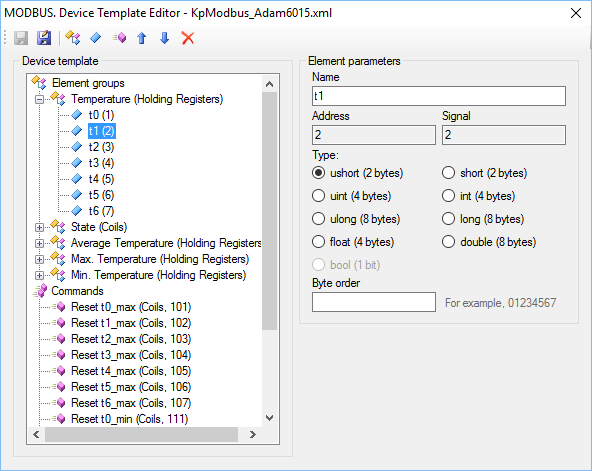
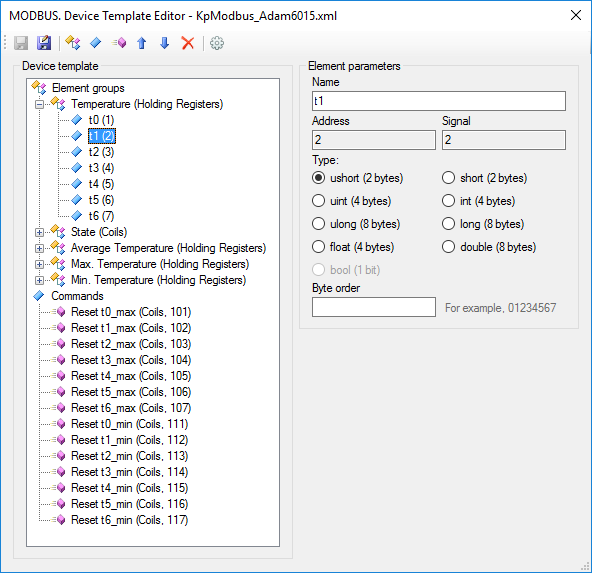
ScadaDoc: update Modbus article (en)

diff --git a/ScadaDoc/ScadaDoc/content/en/use-cases/modbus-protocol.html b/ScadaDoc/ScadaDoc/content/en/use-cases/modbus-protocol.html
@@ -12,7 +12,7 @@
 
     <p class="sd-article-meta">
         Written by Rapid SCADA on January 5, 2015<br />
-        Updated on January 25, 2017
+        Updated on October 16, 2017
     </p>
 
     <p>This article describes how to configure communication with devices using Modbus protocol. Simple and robust, Modbus has since become a de facto standard communication protocol, and it is now a commonly available means of connecting industrial electronic devices (see <a href="https://en.wikipedia.org/wiki/Modbus" target="_blank">Wikipedia</a>). Rapid SCADA supports Modbus RTU, ASCII and TCP modes.</p>
@@ -140,15 +140,20 @@
 
     <p>Device template reflects the structure of Modbus packages. Requested data are combined into groups of elements. Each group has its name, data table, start address and element count. Each element is a tag of a device. Rapid SCADA identifies a tag by its signal number. A command is described by its name, data table and address. A command number identifies the command within Rapid SCADA.</p>
 
-    <p>Names of groups, elements and commands are arbitrary. What data tables and element addresses are available usually described in device manual. As written in Modbus standard, element addresses start with 1, but device manufacturers often numerate the first element as 0. In this case just add 1 to an address before entering it to device template.</p>
+    <p>Names of groups, elements and commands are arbitrary. The available data tables and element addresses are usually described in device manual. Depending on the manufacturer, addressing of elements can be zero-based or one-based, specified as decimal or hexadecimal numbers. By default, addresses start with 1 and represented as decimals. To switch template addressing, click the <img src="../../common-images/settings.png" /> button. Template settings dialog is opened (see Figure 10).</p>
+
+    <p class="sd-article-image">
+        <img src="modbus-protocol-files/modbus_template_settings_en.png" alt="Template settings" /><br />
+        Figure 10. Template settings
+    </p>
 
     <p>To save Communicator settings click the <img src="../../common-images/apply.png" /> button. Now it is recommended to start the Communicator service with the <img src="../../common-images/start.png" /> button and check communication with the device.</p>
 
-    <p>Click Device 101 "Test device" tree node to check the device state and the availability of data (see Figure 10). The data is not available immediately after start, retrieved values are shown when the first polling complete.</p>
+    <p>Click Device 101 "Test device" tree node to check the device state and the availability of data (see Figure 11). The data is not available immediately after start, retrieved values are shown when the first polling complete.</p>
 
     <p class="sd-article-image">
         <img src="modbus-protocol-files/modbus_data_en.png" alt="Device data" /><br />
-        Figure 10. Device data
+        Figure 11. Device data
     </p>
 
     <p>In case of losing communication with the device, use a communication line log to analyze the problem cause. To open the log, click the <em>Communication Line Stats</em> tree node and go to the <em>Communication Line Log</em> page. Data packages can be decoded by <a href="http://modbus.rapidscada.net/" target="_blank">Online Modbus Parser</a>.</p>
@@ -159,11 +164,11 @@
 
     <p>The automatic channel creation service helps to save a time. Click <em>Service &gt; Create Channels</em> in the main menu of the application.</p>
 
-    <p>On the form, which is shown in Figure 11, choose "Test line" in the drop down list, then tick the "Test device" row and choose "Test object" in the cell of the <em>Object</em> column. Set the channel numbering parameters to create channels having convenient numbers. Firstly press the <em>Calculate channel numbers</em> button, then press <em>Create</em>.</p>
+    <p>On the form, which is shown in Figure 12, choose "Test line" in the drop down list, then tick the "Test device" row and choose "Test object" in the cell of the <em>Object</em> column. Set the channel numbering parameters to create channels having convenient numbers. Firstly press the <em>Calculate channel numbers</em> button, then press <em>Create</em>.</p>
 
     <p class="sd-article-image">
         <img src="modbus-protocol-files/modbus_create_cnls_en.png" alt="Creation of channels" /><br />
-        Figure 11. Creation of channels
+        Figure 12. Creation of channels
     </p>
 
     <p>The channels are created automatically based on the device template that has been created and assigned to the device in the previous section of this article. To view created channels, click the <em>Input channels &gt; Test device</em> tree node and the <em>Output channels &gt; Test device</em> node. It is recommended to manually fill in the <em>Quantity</em> and <em>Unit</em> fields of the input channels and the <em>Command values</em> field of the output channels. However, in the case of the first experiment it is unnecessary.</p>
@@ -172,11 +177,11 @@
 
     <p>After editing the configuration database is complete, press the <img src="../../common-images/pass.gif" /> button to pass the changes to Server, and then restart Server and Communicator by <img src="../../common-images/restart_blue.gif" /> and <img src="../../common-images/restart_yellow.gif" /> buttons.</p>
 
-    <p>Open the <em>Device Data</em> page in Communicator and make sure that the input channels are bound to the device tags – the <em>Channel column</em> must contain numbers of the created input channels (see Figure 12).</p>
+    <p>Open the <em>Device Data</em> page in Communicator and make sure that the input channels are bound to the device tags – the <em>Channel column</em> must contain numbers of the created input channels (see Figure 13).</p>
 
     <p class="sd-article-image">
         <img src="modbus-protocol-files/modbus_data_with_cnls_en.png" alt="Device data bound to channels" /><br />
-        Figure 12. Device data bound to channels
+        Figure 13. Device data bound to channels
     </p>
 
     <p>As a result of described actions, data should be collected from the device and stored in the archive. It remains to customize user interface for an operator.</p>
@@ -185,34 +190,34 @@
 
     <p>Consider creating a table view for the Webstation application. To do this, the Table Editor application is needed. If displaying data in a graphical view is required, use Scheme Editor instead of Table editor.</p>
 
-    <p>Open Table Editor and fill in the table view as shown in Figure 13. Add a channel in the table (from the left side of the window to the right) by clicking the <img src="../../common-images/plus.png" /> button, double-clicking the channel row or by pressing Enter.</p>
+    <p>Open Table Editor and fill in the table view as shown in Figure 14. Add a channel in the table (from the left side of the window to the right) by clicking the <img src="../../common-images/plus.png" /> button, double-clicking the channel row or by pressing Enter.</p>
 
     <p>Save created table view in the TestTable.tbl file in the C:\SCADA\Interface\Test folder. Please note that folder names and file names of views must contain only Latin characters.</p>
 
     <p class="sd-article-image">
         <img src="modbus-protocol-files/modbus_table_editor_en.png" alt="Table editor" /><br />
-        Figure 13. Table editor
+        Figure 14. Table editor
     </p>
 
-    <p>To display a table view in Webstation, define it in the <em>Interface</em> table of the configuration database by the Administrator application as shown in Figure 14.</p>
+    <p>To display a table view in Webstation, define it in the <em>Interface</em> table of the configuration database by the Administrator application as shown in Figure 15.</p>
 
     <p class="sd-article-image">
         <img src="modbus-protocol-files/modbus_table_itf_en.png" alt="Adding a view in the Interface table" /><br />
-        Figure 14. Adding a view in the Interface table
+        Figure 15. Adding a view in the Interface table
     </p>
 
     <p>To apply the changes, send the database to Server by the <img src="../../common-images/pass.gif" /> button and restart the Server service by the <img src="../../common-images/restart_blue.gif" /> button.</p>
 
-    <p>Now start your browser and enter the address <a href="http://localhost/scada/" target="_blank">http://localhost/scada/</a>. On the login form use <em>admin / 12345</em> (see Figure 15). If the configuration carried out correctly, after logging in, you will see a table with the data obtained from the device, similar to Figure 16.</p>
+    <p>Now start your browser and enter the address <a href="http://localhost/scada/" target="_blank">http://localhost/scada/</a>. On the login form use <em>admin / 12345</em> (see Figure 16). If the configuration carried out correctly, after logging in, you will see a table with the data obtained from the device, similar to Figure 17.</p>
 
     <p class="sd-article-image">
         <img src="modbus-protocol-files/modbus_web1_en.png" alt="Login form" /><br />
-        Figure 15. Login form
+        Figure 16. Login form
     </p>
 
     <p class="sd-article-image">
         <img src="modbus-protocol-files/modbus_web2_en.png" alt="The Webstation application" /><br />
-        Figure 16. The Webstation application
+        Figure 17. The Webstation application
     </p>
 
     <h2>Modbus Tags Conversion</h2>

diff --git a/ScadaDoc/ScadaDoc/content/ru/use-cases/modbus-protocol.html b/ScadaDoc/ScadaDoc/content/ru/use-cases/modbus-protocol.html
@@ -12,7 +12,7 @@
 
     <p class="sd-article-meta">
         Автор Rapid SCADA, 10 мая 2012<br />
-        Обновление 25 января 2017
+        Обновление 16 октября 2017
     </p>
 
     <p>На рынке представлено огромное количество устройств, работающих в самых разных областях автоматизации, которые поддерживают обмен данными по протоколу <a href="https://ru.wikipedia.org/wiki/Modbus" target="_blank">Modbus</a>. Modbus - это открытый коммуникационный протокол, использующий клиент-серверную модель, основанную на транзакциях, состоящих из запроса и ответа. Реализация поддержки протокола Modbus комплексом Rapid SCADA на порядок расширяет перечень устройств, с которыми может работать комплекс. Поддерживаются следующие режимы передачи данных: RTU, ASCII, TCP.</p>
